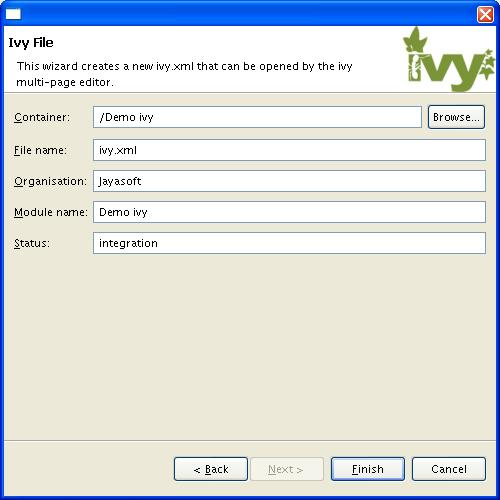
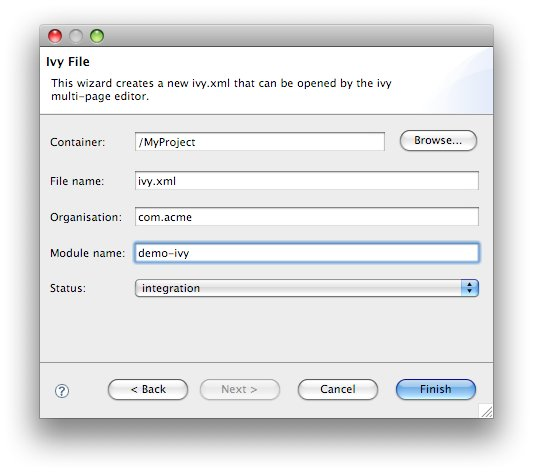
Screenshots updated to be synchronized with the UI that will be released
git-svn-id: http://svn.apache.org/repos/asf/ant@785422 13f79535-47bb-0310-9956-ffa450edef68

diff --git a/ivy/ivyde/trunk/doc/cpc/maven.html b/ivy/ivyde/trunk/doc/cpc/maven.html
@@ -68,7 +68,7 @@ This sample shows that IvyDE Class path container on a Maven2 pom can handle tra
 
 <b> - Create a new empty java project in eclipse.</b>
 
-<b> - In your Ivy project configuration, set the ivy settings file below (Project/Properties/Ivy):</b>
+<b> - In your project, create an <tt>ivysettings.xml</tt> file: </b>
 
 <code><ivysettings>
 	<conf defaultResolver="ibiblio"/>
@@ -80,9 +80,7 @@ This sample shows that IvyDE Class path container on a Maven2 pom can handle tra
 
 Using the m2compatible attribute, you can benefit from Maven2 repository compatibility.
 
-
-<b> - Add the pom below in your project and select it for an IvyDE class path container choosing "compile" and "runtime" configurations.</b>
-
+<b> - In your project, create a <tt>pom.xml</tt> file: </b>
 
 <code>
 <project>
@@ -100,11 +98,21 @@ Using the m2compatible attribute, you can benefit from Maven2 repository compati
 </project>
 </code>
 
+<b> - On the pom.xml file, open the context menu and click on "Add Ivy Library...":</b>
+
+<ul>
+    <li>Select "Enable project specific settings" and set the "Ivy setting path" to: <tt>project:///ivysettings.xml</tt> </li>
+    <li>Select the configuration <tt>compile</tt> and <tt>runtime</tt></li>
+</ul>
+
+<center>
+    <img src="../images/maven2classpath1.jpg"/>
+</center>   
 
 <b> - That's all ! Your IvyDE class path container gets all dependencies even those that were transitive to the commons-httpclient module !</b>
 
 <center>
-    <img src="../images/maven2classpath.jpg"/>
+    <img src="../images/maven2classpath2.jpg"/>
 </center>   
 </textarea>
 <script type="text/javascript">xooki.postProcess();</script>
